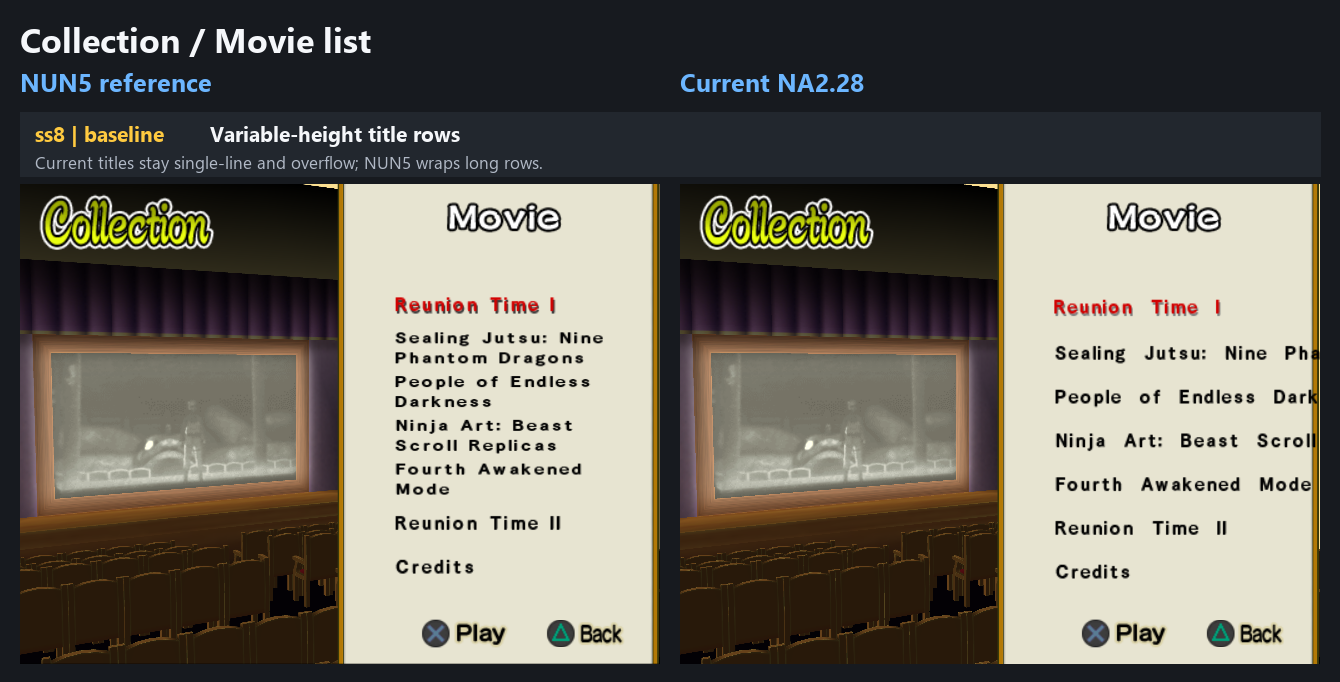
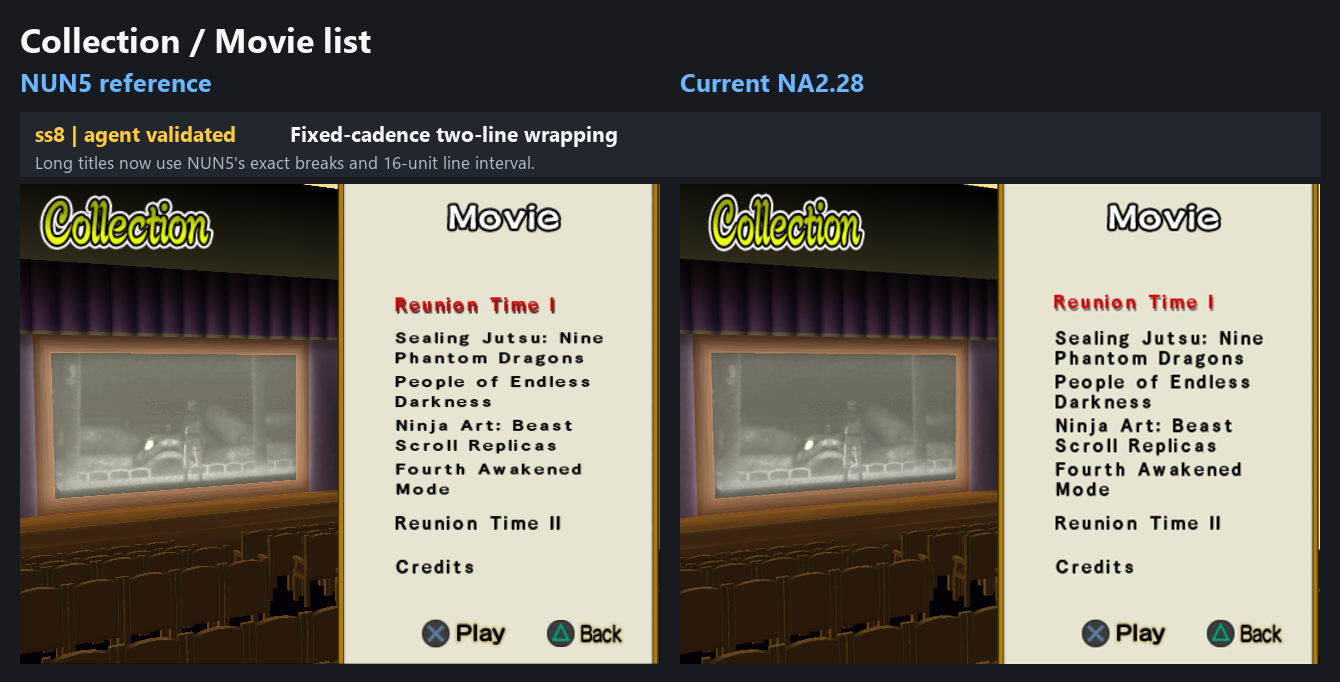
[Font] Wrap Collection Movie titles

Changed region(s): [[0.7649, 0.4311, 1.0, 0.8622], [0.0306, 0.1848, 0.459, 0.2463], [0.5201, 0.2771, 0.6731, 0.3695]]

diff --git a/na228_builder/features/localization/runtime_injector/sources/font_v2_core.c b/na228_builder/features/localization/runtime_injector/sources/font_v2_core.c
@@ -62,6 +62,14 @@ typedef signed int s32;
 #define FONT_JUTSU_LINE_ADVANCE 16.0f
 #define FONT_JUTSU_GLYPH_HEIGHT 20.0f
 #define FONT_JUTSU_LINE_LIMIT 2u
+#define FONT_MOVIE_TEXT_START 0x003FFAA0u
+#define FONT_MOVIE_TEXT_END 0x003FFC10u
+#define FONT_MOVIE_BOX_Y_OFFSET -10.0f
+#define FONT_MOVIE_BOX_WIDTH 192u
+#define FONT_MOVIE_BOX_HEIGHT 32u
+#define FONT_MOVIE_LINE_ADVANCE 16.0f
+#define FONT_MOVIE_GLYPH_HEIGHT 20.0f
+#define FONT_MOVIE_LINE_LIMIT 2u
 #define FONT_PRACTICE_TITLE_BOX_X 31.2f
 #define FONT_PRACTICE_TITLE_BOX_WIDTH 352u
 #define FONT_PRACTICE_TITLE_Y_OFFSET -6.8f
@@ -1044,6 +1052,108 @@ int font_v2_jutsu_draw_entry(
     frame.session.callback = (u32)font_v2_jutsu_draw_callback;
     frame.session.callback_arg0 = renderer_address;
     frame.session.callback_arg1 = (u32)frame.buffer;
+    frame.session.callback_arg2 = 0;
+    frame.session.callback_arg3 = (u32)&frame.session;
+    return font_v2_adapter_call(&frame.session);
+}
+
+static FONT_V2_SECTION(".text.font_v2_movie_list_callback")
+int font_v2_movie_list_callback(
+    u32 text,
+    u32 highlighted,
+    u32 arg2,
+    FontV2Session *session
+) {
+    FontV2NativeDraw draw = (FontV2NativeDraw)FONT_DRAW_ADDRESS;
+    u8 *cursor = (u8 *)text;
+    u8 *line_start = cursor;
+    u32 line_index = 0;
+
+    (void)arg2;
+    for (;;) {
+        if (!*cursor || *cursor == (u8)'\n') {
+            u8 saved = *cursor;
+            *cursor = 0;
+            draw(
+                session->draw_x,
+                session->draw_y +
+                    (float)(s32)line_index * session->line_height,
+                line_start,
+                highlighted
+            );
+            *cursor = saved;
+            if (!saved) {
+                break;
+            }
+            cursor += 1;
+            line_start = cursor;
+            line_index += 1;
+        } else {
+            cursor += 1;
+        }
+    }
+    return 0;
+}
+
+FONT_V2_SECTION(".text.font_v2_movie_list_entry")
+int font_v2_movie_list_entry(
+    const u8 *text,
+    u32 highlighted,
+    float native_x,
+    float native_y
+) {
+    FontV2BodyFrame frame;
+    FontV2NativeDraw draw = (FontV2NativeDraw)FONT_DRAW_ADDRESS;
+    u32 text_address = (u32)text;
+    u32 index = 0;
+
+    if (!text) {
+        return -1;
+    }
+    if (
+        text_address < FONT_MOVIE_TEXT_START ||
+        text_address >= FONT_MOVIE_TEXT_END
+    ) {
+        draw(native_x, native_y, text, highlighted);
+        return 0;
+    }
+
+    while (index < FONT_BODY_BUFFER_SIZE - 1u && text[index]) {
+        frame.buffer[index] = text[index];
+        index += 1;
+    }
+    frame.buffer[index] = 0;
+
+    if (
+        font_v2_wrap_native(
+            frame.buffer,
+            FONT_MOVIE_BOX_WIDTH,
+            FONT_MOVIE_LINE_LIMIT,
+            &frame.session.measured_width,
+            &frame.session.line_count
+        ) != 0
+    ) {
+        return -1;
+    }
+
+    frame.session.text = frame.buffer;
+    frame.session.box_x = native_x;
+    frame.session.box_y = native_y + FONT_MOVIE_BOX_Y_OFFSET;
+    frame.session.box_width = FONT_MOVIE_BOX_WIDTH;
+    frame.session.box_height = FONT_MOVIE_BOX_HEIGHT;
+    frame.session.horizontal_alignment = FONT_V2_ALIGN_START;
+    frame.session.vertical_alignment = FONT_V2_ALIGN_CENTER;
+    frame.session.flags =
+        FONT_V2_FLAG_NEWLINE_BYTES |
+        FONT_V2_FLAG_SEPARATE_LINE_ADVANCE |
+        FONT_V2_FLAG_PREMEASURED |
+        FONT_V2_FLAG_GLYPH_HEIGHT;
+    frame.session.line_limit = FONT_MOVIE_LINE_LIMIT;
+    frame.session.line_height = FONT_MOVIE_LINE_ADVANCE;
+    frame.session.glyph_height = FONT_MOVIE_GLYPH_HEIGHT;
+    frame.session.callback = (u32)font_v2_movie_list_callback;
+    frame.session.callback_arg0 = (u32)frame.buffer;
+    frame.session.callback_arg1 = highlighted;
     frame.session.callback_arg2 = 0;
     frame.session.callback_arg3 = (u32)&frame.session;
     return font_v2_adapter_call(&frame.session);

diff --git a/scripts/research/localization/verify_font_renderer.py b/scripts/research/localization/verify_font_renderer.py
@@ -119,6 +119,8 @@ V2_CHARACTER_UNSELECTED_ADAPTER = (
 )
 V2_JUTSU_DRAW_CALLBACK = f"{V2_PREFIX}.c.jutsu_draw_callback"
 V2_JUTSU_DRAW_ENTRY = f"{V2_PREFIX}.jutsu_draw_entry"
+V2_MOVIE_LIST_CALLBACK = f"{V2_PREFIX}.c.movie_list_callback"
+V2_MOVIE_LIST_ENTRY = f"{V2_PREFIX}.movie_list_entry"
 V2_CHARACTER_CONFIRMATION_BODY_CALLBACK = (
     f"{V2_PREFIX}.c.character_confirmation_body_callback"
 )
@@ -442,6 +444,7 @@ def build_v2_c_core() -> tuple[Fragment, ...]:
         "font_v2_character_selected_adapter",
         "font_v2_character_unselected_adapter",
         "font_v2_jutsu_draw_entry",
+        "font_v2_movie_list_entry",
         "font_v2_practice_icon_metric",
         "font_v2_practice_icon_draw",
         "font_v2_practice_adapter_impl",
@@ -517,6 +520,9 @@ def build_v2_c_core() -> tuple[Fragment, ...]:
         extracted.symbols["font_v2_jutsu_draw_entry"].symbol: (
             V2_JUTSU_DRAW_ENTRY
         ),
+        extracted.symbols["font_v2_movie_list_entry"].symbol: (
+            V2_MOVIE_LIST_ENTRY
+        ),
         extracted.symbols["font_v2_practice_icon_metric"].symbol: (
             V2_PRACTICE_ICON_METRIC
         ),
@@ -552,6 +558,9 @@ def build_v2_c_core() -> tuple[Fragment, ...]:
         ): V2_CHARACTER_CONFIRMATION_BODY_CALLBACK,
         f"{V2_PREFIX}.c.text.font.v2.jutsu.draw.callback": (
             V2_JUTSU_DRAW_CALLBACK
+        ),
+        f"{V2_PREFIX}.c.text.font.v2.movie.list.callback": (
+            V2_MOVIE_LIST_CALLBACK
         ),
     }
     if helper_symbols != set(helper_aliases):
@@ -615,6 +624,8 @@ def build_v2_c_core() -> tuple[Fragment, ...]:
         V2_CHARACTER_CONFIRMATION_BODY_CALLBACK,
         V2_JUTSU_DRAW_CALLBACK,
         V2_JUTSU_DRAW_ENTRY,
+        V2_MOVIE_LIST_CALLBACK,
+        V2_MOVIE_LIST_ENTRY,
         f"{V2_PREFIX}.c.icon_record",
         V2_PRACTICE_ICON_METRIC,
         V2_PRACTICE_ICON_DRAW,

diff --git a/docs/knowledge/localization/font/README.md b/docs/knowledge/localization/font/README.md
@@ -916,14 +916,18 @@ Those supplied `092FEF8A` states restore an older resident payload than the
 later on-disc Current build. Offline `eeMemory.bin` signature recovery proves
 that `localization.font.v2.adapter_call` remains stable at `0x008F4130`, but
 `practice_append` is at `0x008F4D68` rather than Current `0x008F4F30`,
-`title_callback` is at `0x008F5500` rather than `0x008F56E8`, `wrap_native`
-is at `0x008F5510` rather than `0x008F56F8`, and the native-measure callback
-is at `0x008F4320` rather than `0x008F44C0`. Importing those shifted Current
-addresses first removed the blue rows and then stalled the guest when only the
-top-level implementation was bank-linked. The successful development overlay
-therefore bank-linked the complete shifted dependency closure and imported
-only the signature-confirmed stable adapter call. This is a savestate-specific
-development constraint, not a production payload requirement.
+`title_callback` is at `0x008F5500` rather than `0x008F56E8`, and the
+native-measure callback is at `0x008F4320` rather than `0x008F44C0`.
+The earlier `wrap_native = 0x008F5510` identification was wrong: exact
+disassembly of the compatible ISO's `228.BIN` places that address inside
+`font_v2_prepare`. Calling it as a wrapper trapped the injected Movie-list
+candidate, while a clean ss8 reload without injection rendered normally.
+The same payload proves `font_v2_wrap_native` spans
+`[0x008F5930,0x008F5B38)` (520 bytes) and makes its three measurement calls to
+`font_v2_native_measure` at `0x008F4F38`. A corrected wrap-only probe and the
+complete ss8 candidate both execute normally with `0x008F5930`. This is a
+savestate-specific development constraint, not a production payload
+requirement.
 
 Confidence is **high** for the homolog, selectors, call sites, buffer
 composition, shared one-/two-line geometry, conditional icon offsets, flag
@@ -1089,6 +1093,42 @@ a truthful post-change result grid. Clean-construction runtime validation and
 user acceptance remain pending. Confidence is **high** for the bounded caller
 identity and target geometry; status is **approved for test**.
 
+### Collection Movie-list fixed-cadence wrapping
+
+The replacement 2026-07-30 ss8 pair isolates the Collection Movie list.
+Bounded NA2 ETC inspection identifies `FUN_006B4D30`; its single active title
+draw is runtime `0x006B4ED8`, file `0xFD8`, guarded by
+`10E40D0C00000000` (`jal 0x00379040` plus NOP). The NUN5 homolog
+`FUN_006C7CA0` replaces the corresponding draw at ETC file `0x1164` with its
+boxed renderer at `0x0038A210`.
+
+NUN5 uses a 192-by-32, two-line box at native X and native Y minus 10. The
+outer list retains fixed row cadence; wrapped titles occupy two lines inside
+their existing row rather than increasing later row positions. Its exact
+visible breaks are:
+
+- `Sealing Jutsu: Nine` / `Phantom Dragons`;
+- `People of Endless` / `Darkness`;
+- `Ninja Art: Beast` / `Scroll Replicas`;
+- `Fourth Awakened` / `Mode`.
+
+The bounded implementation accepts only Movie-title pointers in
+`0x003FFAA0..0x003FFC10`, copies the source to a transient buffer, and reuses
+`font_v2_wrap_native` with a two-line limit. It draws each resulting line
+through the displaced native renderer at a 16-unit interval. That separate
+line draw is required because passing the inserted newline to NA2's native
+renderer produces a 25-unit interval on this screen. Short titles, the
+highlighted red style, fixed caller cadence, source mappings, and every
+non-Movie use of the shared renderer remain native.
+
+The task-owned ss8 candidate gives the same four breaks and horizontal origins
+as NUN5, while `Reunion Time I`, `Reunion Time II`, and `Credits` retain their
+native rows. The candidate was compiled and linked against the exact
+compatible ISO, applied after supplied-state reload, and captured through the
+task-owned PINE worker. Confidence is **verified** for the caller, pointer
+boundary, wrapper geometry, line interval, and visible ss8 result; status is
+**approved for test** pending explicit user acceptance.
+
 ### Character Select modal selected row, return body, and choice list
 
 The refreshed 2026-07-29 ss5-ss7 pairs isolate two main-ELF callers inside
@@ -1237,8 +1277,10 @@ Chart, command explanation, Practice settings, Practice quit, character
 return, Collection quit, Collection movie, and the no-memory-card prompt.
 Controls and the wrapper-owned Practice/confirmation families retained their
 matched results. Command explanation, Collection movie, and no-memory-card
-overflow remain separate unresolved caller families; their unchanged defects
-are not regressions from this port. Confidence is **high** for the shared
+overflow were separate unresolved caller families at that historical
+boundary; their unchanged defects were not regressions from this port. The
+later dedicated Collection Movie-list work resolves that family as documented
+above. Confidence is **high** for the shared
 measurement formula, hook boundaries, caller guards, and matched horizontal
 result. That regression did not cover entry into Save/Load and therefore did
 not establish persistent ownership of the helper interval.

diff --git a/docs/workstreams/font/epics/ss2-6-layout/README.md b/docs/workstreams/font/epics/ss2-6-layout/README.md
@@ -12,12 +12,12 @@ case.
 ## Execution state
 
 - Mode: Continuous.
-- Current subtask: Priority 5 — ss8 Movie-list wrapping. Priority 4 remains
+- Current subtask: Priority 6 — ss9–ss10 character move lists. Priority 4 remains
   queued because supplied ss7 resumes after its two owner calls.
 - Pending grid:
-  `docs/workstreams/font/epics/ss2-6-layout/3-jutsu-selector.png`.
-- Next action: visibly deliver Priority 3, then investigate the ss8 draw-time
-  caller without waiting for Priority 3 acceptance.
+  `docs/workstreams/font/epics/ss2-6-layout/5-movie-list.png`.
+- Next action: visibly deliver Priority 5, then investigate the shared
+  ss9–ss10 move-list caller family without waiting for earlier acceptance.
 
 ## Scope and evidence
 
@@ -71,8 +71,8 @@ case.
 
 ### Priority 2 — supplemental ss1–ss2: Character Select option lists
 
-- State: implemented, canonically validated, and agent-validated on 2026-07-30;
-  visible delivery and explicit user acceptance remain pending.
+- State: implemented, canonically validated, agent-validated, and visibly
+  delivered on 2026-07-30; explicit user acceptance remains pending.
 - ss1: the highlighted first player-mode row remains unchanged. The ordinary
   rows already had exact NUN5 Y bounds, but bypassed the selected row's
   NUN5-metric session, making them eight or nine pixels too wide and six pixels
@@ -91,9 +91,8 @@ case.
 
 ### Priority 3 — ss3–ss6: One Jutsu-selector defect
 
-- State: implemented, canonically validated, and agent-validated on
-  supplemental ss3; visible delivery and explicit user acceptance remain
-  pending.
+- State: implemented, canonically validated, agent-validated on supplemental
+  ss3, and visibly delivered; explicit user acceptance remains pending.
 - The enabled hook uses corrected BTL file offset `0x90DC`.
 - The C entry preserves native one-line rows exactly and invokes the
   NUN5-matched 186-by-32 session only when measurement actually produces a
@@ -126,11 +125,15 @@ case.
 
 ### Priority 5 — ss8: Movie list
 
-- State: matched baseline captured; not implemented.
-- Remaining defect: Current movie titles remain single-line and overflow,
-  while NUN5 uses variable-height wrapped rows.
+- State: implemented, canonically validated, and agent-validated; visible
+  delivery and explicit user acceptance remain pending.
+- Result: one guarded ETC caller routes only Movie-table pointers through a
+  192-by-32, two-line C wrapper at native X and native Y minus 10. The four
+  long titles now use NUN5's exact breaks and 16-unit line interval while the
+  list keeps fixed row cadence. Short titles, selection style, source strings,
+  and every non-Movie caller remain native.
 
-![Priority 5 Movie-list baseline](5-movie-list.png)
+![Priority 5 Movie-list result](5-movie-list.png)
 
 ### Priority 6 — ss9–ss10: Character move lists
 
@@ -145,17 +148,18 @@ case.
 Priority is determined by the most efficient implementation order.
 
 1. **ss1 — Character Select return confirmation.** User-verified.
-2. **supplemental ss1–ss2 — Character Select option lists.** Implemented and
-   agent-validated; visible delivery and explicit user acceptance are pending.
-3. **ss3–ss6 — one Jutsu-selector defect.** Implemented and agent-validated;
-   visible delivery and explicit user acceptance are pending.
+2. **supplemental ss1–ss2 — Character Select option lists.** Implemented,
+   agent-validated, and visibly delivered; explicit user acceptance is pending.
+3. **ss3–ss6 — one Jutsu-selector defect.** Implemented, agent-validated, and
+   visibly delivered; explicit user acceptance is pending.
 4. **ss7 — Collection exit confirmation.** Implementation is ready, but the
    supplied visible-prompt state resumes after both owner calls; final runtime
    construction evidence remains queued.
-5. **ss8 — Movie list.** Next actionable case: implement caller-specific
-   variable-height wrapped rows.
-6. **ss9–ss10 — Character move lists.** Reuse one bounded wrapping primitive
-   for both long-title cases where the caller family is shared.
+5. **ss8 — Movie list.** Implemented and agent-validated with fixed-cadence
+   two-line wrapping; visible delivery and explicit user acceptance are pending.
+6. **ss9–ss10 — Character move lists.** Next actionable case: reuse one
+   bounded wrapping primitive for both long-title cases where the caller
+   family is shared.
 
 Shared primitives are implemented only once. Each prioritized caller family
 receives one guarded implementation and commit/push boundary; every case keeps

diff --git a/na228_builder/features/localization/README.md b/na228_builder/features/localization/README.md
@@ -1889,6 +1889,19 @@ verification pass; clean-construction runtime validation and user acceptance
 remain pending because the supplied visible-prompt ss7 state resumes after
 both owner calls.
 
+The separate `font_layout_collection_movie_list` layer owns only the Movie
+row draw in ETC `FUN_006B4D30`, file `0xFD8` (clean guard
+`10E40D0C00000000`). Its C entry accepts only pointers in the exact Movie-title
+table range `0x003FFAA0..0x003FFC10`; every other caller immediately executes
+the displaced native draw. Movie titles are copied to a bounded transient
+buffer, wrapped to the NUN5 192-by-32 two-line box, and rendered at native X
+and native Y minus 10. The list owner keeps its fixed row cadence. Each
+transient line is drawn separately at a 16-unit interval because NA2's native
+newline path advances 25 units on this screen. Replacement-batch ss8 proves
+the exact NUN5 breaks and origins for all four long titles while the short
+titles, selection style, and unrelated ETC callers remain native. The layer
+is `approved_for_test` pending explicit user acceptance.
+
 The `font_layout_character_select_modal` layer owns four exact main-ELF
 callers rather than broad modal behavior. Files `0x2BC984` and `0x2BC9BC`
 route only the selected and ordinary five-row entries through the same
